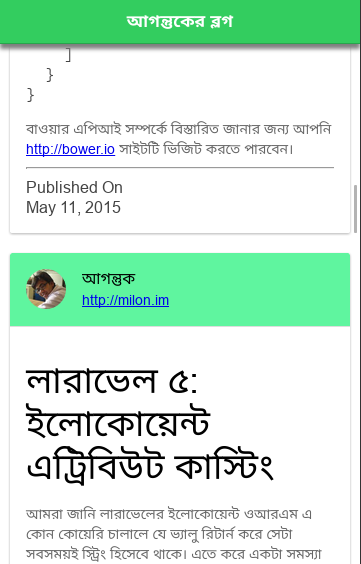
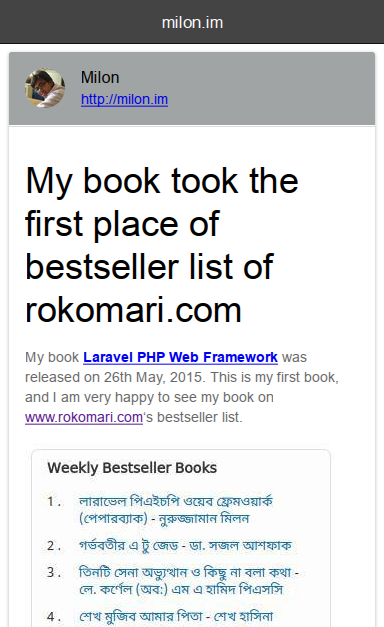
Change branding anf fix loading in init

diff --git a/www/index.html b/www/index.html
@@ -3,7 +3,7 @@
 
 <head>
     <meta charset="UTF-8">
-    <title>আগন্তুকের ব্লগ</title>
+    <title>milon.im</title>
 
     <!-- Ionic libs -->
     <link rel="stylesheet" href="lib/ionic/css/ionic.css">
@@ -14,10 +14,10 @@
     <script src="js/app.js"></script>
 </head>
 
-<body ng-controller="AppController">
+<body ng-controller="AppController" ng-init="refresh()">
 
-    <ion-header-bar class="bar-balanced">
-        <h1 class="title">আগন্তুকের ব্লগ</h1>
+    <ion-header-bar class="bar-dark">
+        <h1 class="title">milon.im</h1>
     </ion-header-bar>
 
     <ion-content>

diff --git a/www/css/style.css b/www/css/style.css
@@ -9,7 +9,7 @@
 }
 
 .item.item-avatar{
-    background: #5ff59f;
+    background: #A1A4A4;
 }
 
 .item.item-body img{

diff --git a/readme.md b/readme.md
@@ -1,7 +1,7 @@
-# Simple Ionic App for [http://milon521.wordpress.com](milon521.wordpress.com)
+# Simple Ionic App for [http://milon.im](http://milon.im)
 
 This is a simple hybrid app using Ionic Framework. This app simply loads the
-posts from [http://milon521.wordpress.com](http://milon521.wordpress.com) using
+posts from [http://milon.im](http://milon.im) using
 WordPress public API and shows them in the App.
 
 ### Requirements
@@ -20,6 +20,11 @@ Just clone the app using following command-
 
 ```
 git clone https://github.com/milon521/blog-ionic-app.git
+```
+
+Then cd into the folder using-
+```
+cd blog-ionic-app
 ```
 
 Then install dependency using the following command-
